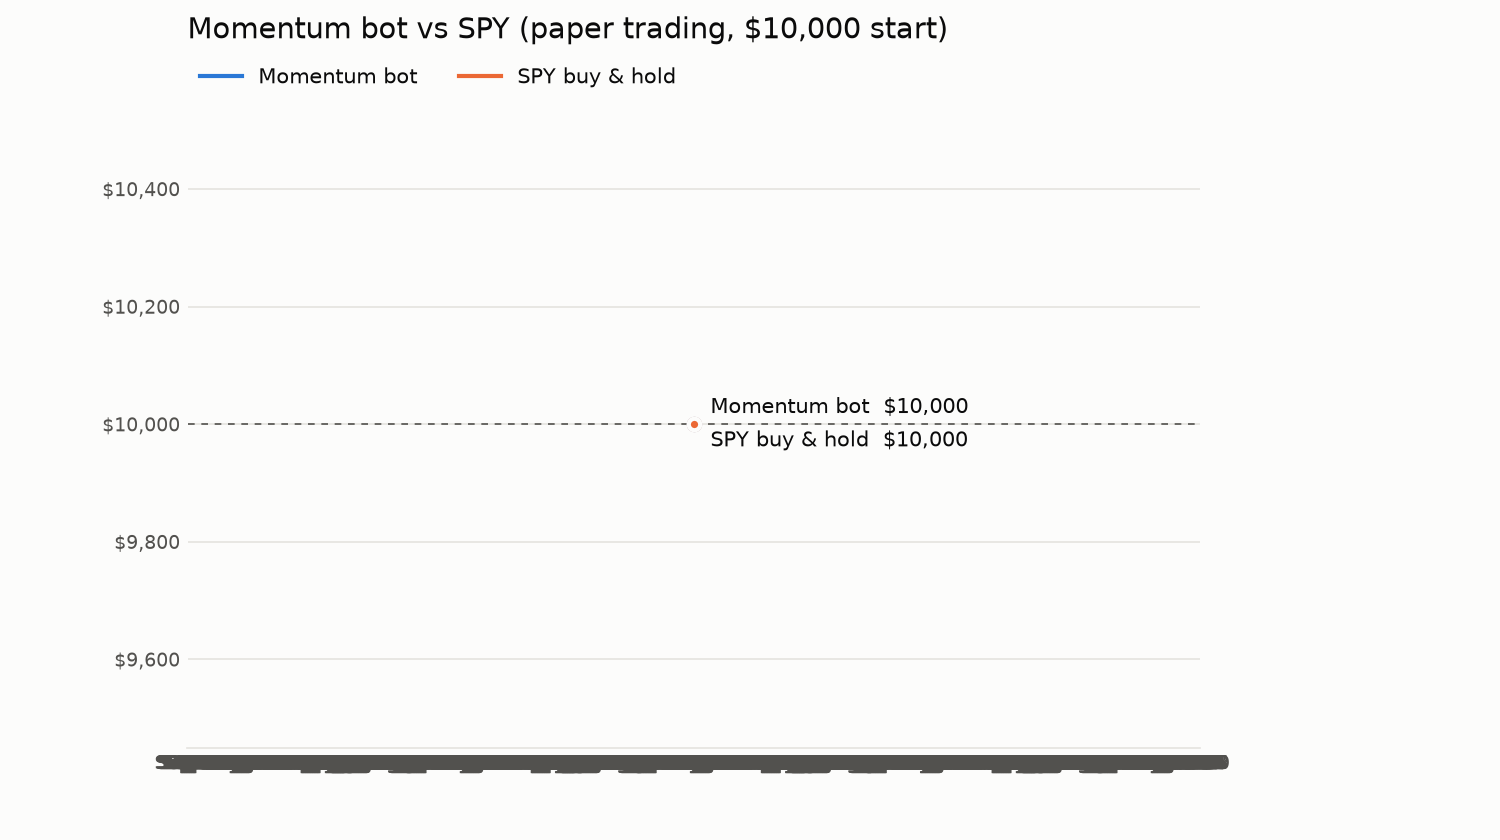
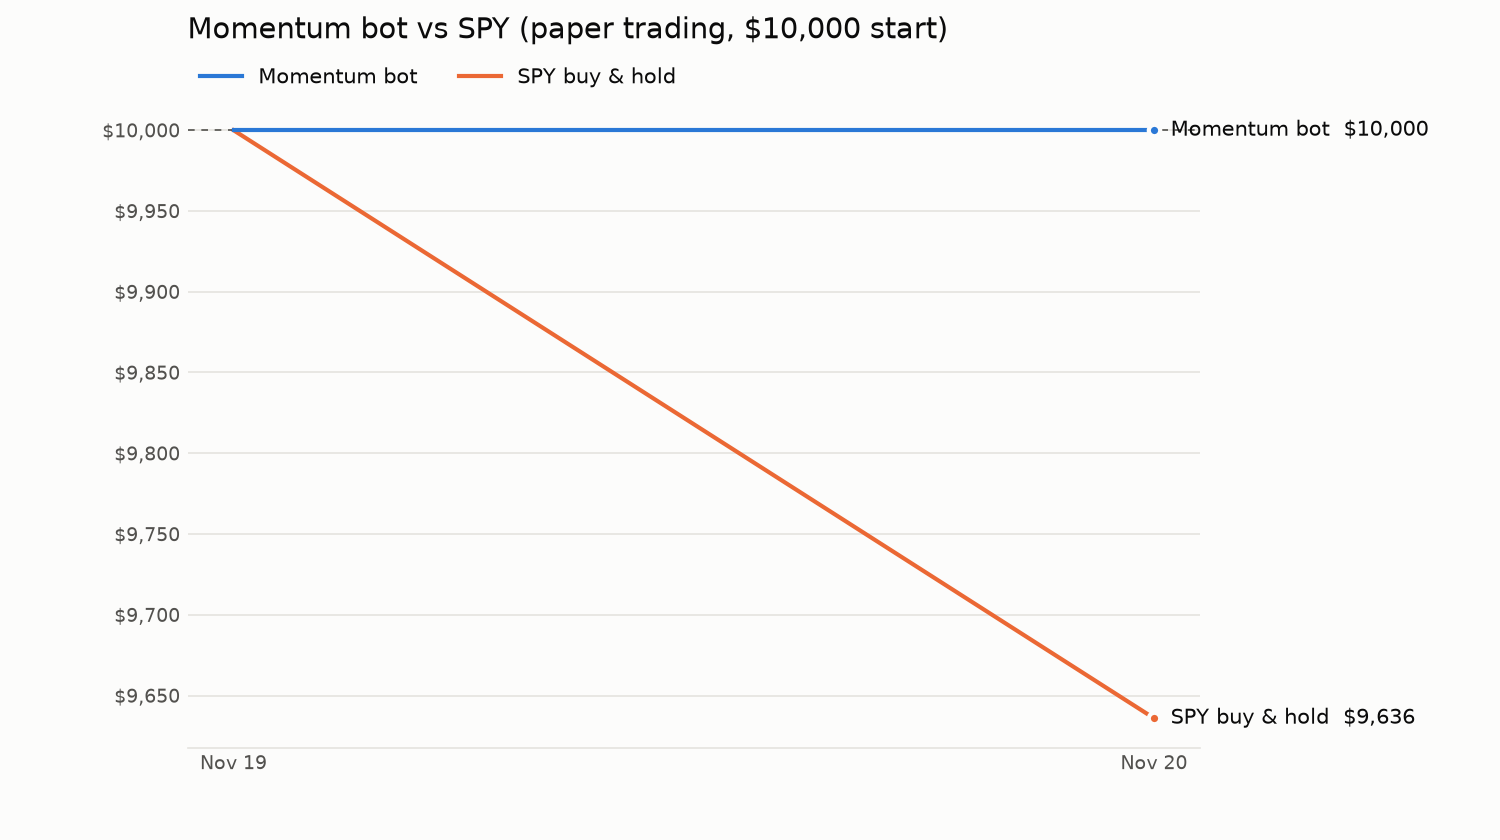
Daily performance log (2026-11-20 22:15 UTC)

diff --git a/summary.md b/summary.md
@@ -2,17 +2,17 @@
 
 > PAPER TRADING ONLY - no real money is involved.
 
-_Last updated: 2026-11-20 15:53 UTC_
+_Last updated: 2026-11-20 22:15 UTC_
 
-Tracking since **2026-11-19** (latest: 2026-11-19)
+Tracking since **2026-11-19** (latest: 2026-11-20)
 
 | Metric | Bot | SPY benchmark |
 |---|---|---|
-| Value | $10,000.00 | $10,000.00 |
-| Total return | +0.00% | +0.00% |
-| Max drawdown | 0.00% | 0.00% |
+| Value | $10,000.00 | $9,635.97 |
+| Total return | +0.00% | -3.64% |
+| Max drawdown | 0.00% | -3.64% |
 
-**Return vs SPY:** +0.00% (ahead of the benchmark)
+**Return vs SPY:** +3.64% (ahead of the benchmark)
 
 **Win rate:** n/a (no positions sold yet)
 
